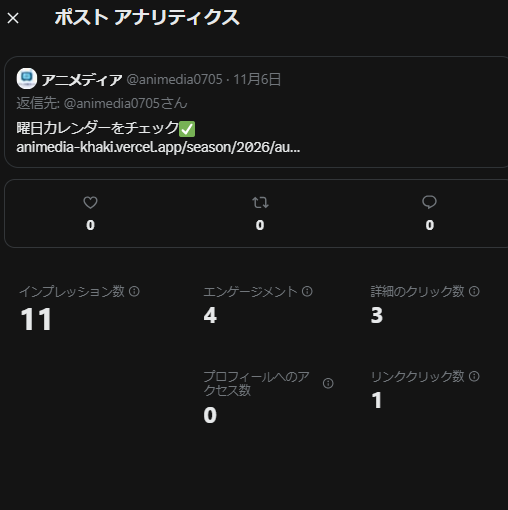
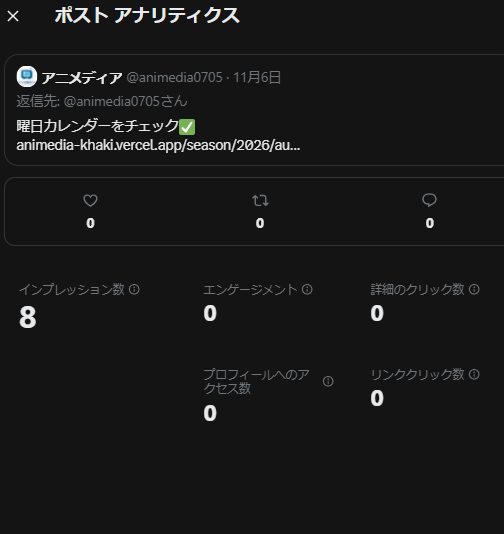
Xアナリティクス: 11/06の返信2件の対応を利用者の確認どおりに直す

diff --git a/docs/x-analytics.md b/docs/x-analytics.md
@@ -336,10 +336,10 @@
 **プロフィール・固定ポスト**: フォロワー**35**（10/26から変わらず）、フォロー中15、投稿232件。自己紹介は11/03の画像と同じ文で、**まだ変わっていない**。
 シャドウバンチェッカーは「されていません」。固定ポスト（10/13）は240（11/03は231）、リンククリック2（増えていない）。
 
-**URL入りの自分の返信（5件）**: 11/03 3・11/04 4・11/06 11と8・11/07 6（約3時間後）。
-**11/06の返信の1件（11インプレッション）でリンククリック1**。10/17からの累計19件で、返信URLのリンククリックは初めて。
+**URL入りの自分の返信（5件）**: 11/03 3・11/04 4・11/06 木曜の一覧への返信11・金曜への返信8・11/07 6（約3時間後）。
+**11/06の木曜の一覧への返信（11インプレッション）でリンククリック1**。10/17からの累計19件で、返信URLのリンククリックは初めて。
 返信の文は「詳細はこちら」（11/03・11/04）から「曜日カレンダーをチェック✅」（11/06）・「「カレンダー」をチェック！」（11/07）に変わっている。
-11/06の2件の返信がどちらの本体への返信かは画像からは分からない（送られた順に金曜・木曜と仮に名付けた）。
+11/06の2件は、木曜の投稿が0時を過ぎたため。返信は順に木曜・金曜（利用者の確認）。
 
 ### 読み取り
 - **11/03（66）・11/04（78）が低い**。24時間以上後の値で、画像なしのairingの中央値（210）の31%・37%。
